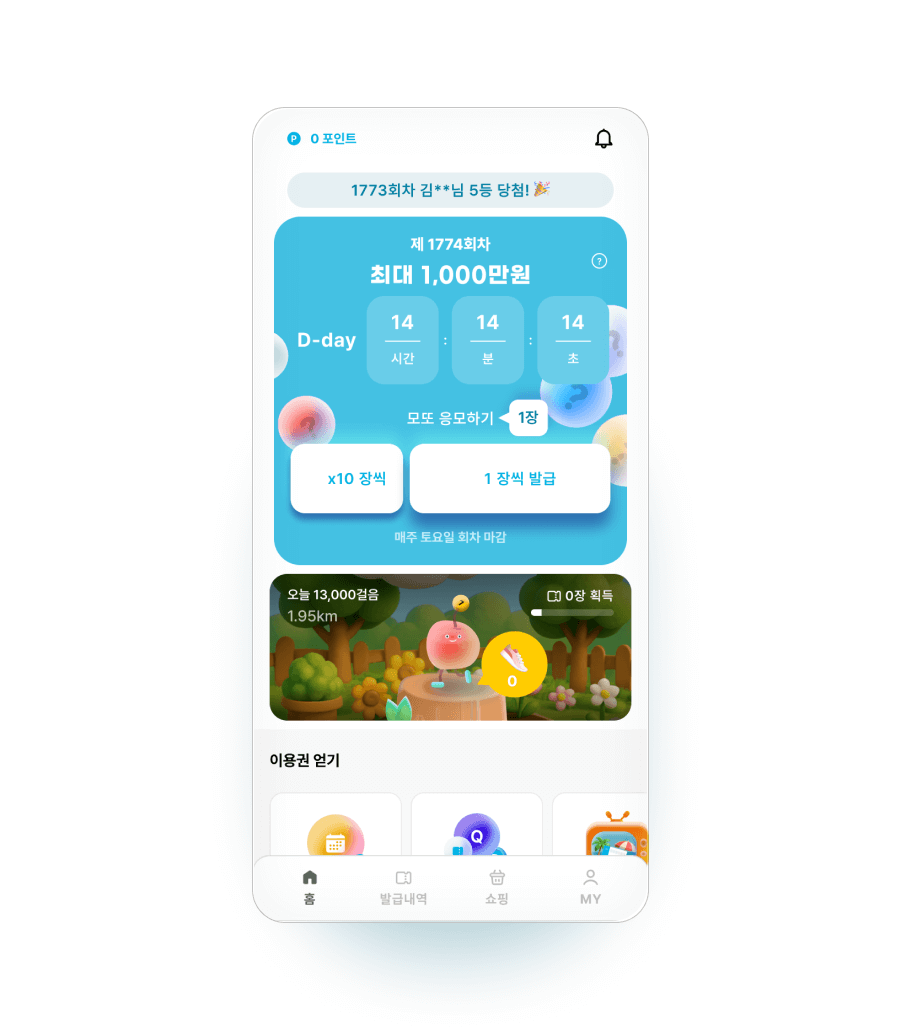
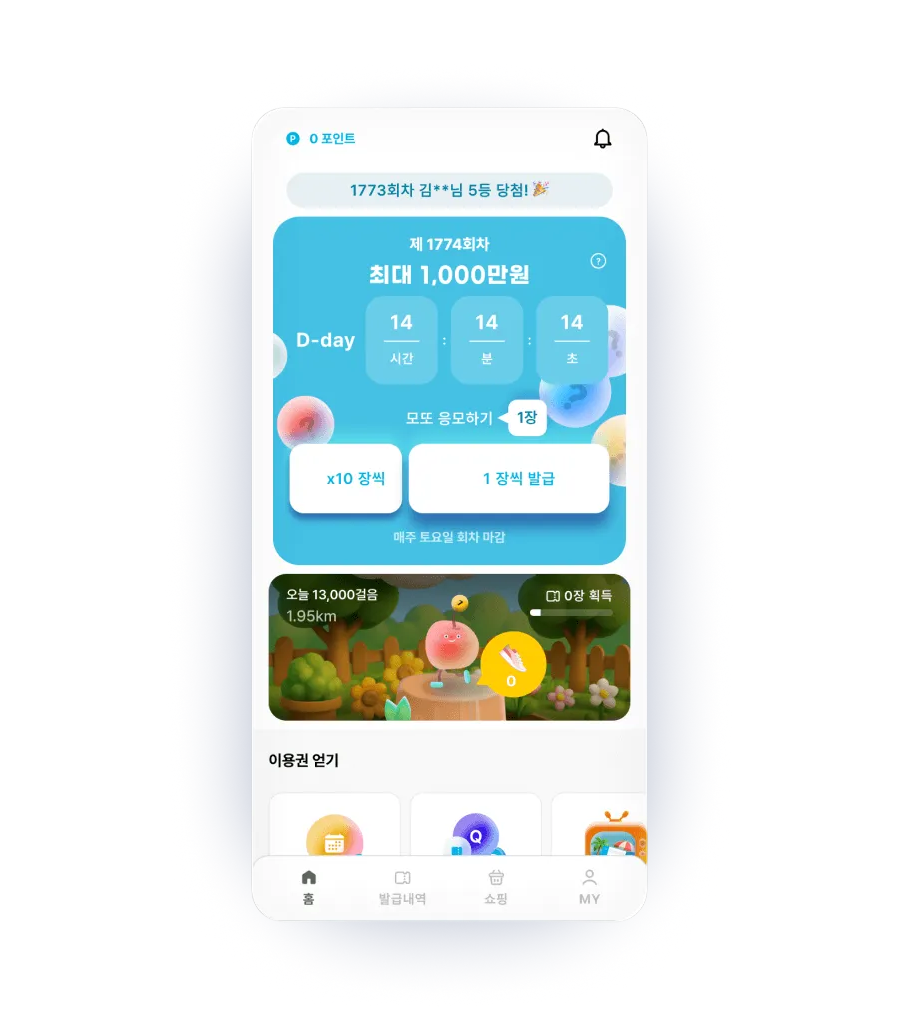
bg change

diff --git a/asset/style.css b/asset/style.css
@@ -36,7 +36,7 @@ body{
   height: 96%;
   margin: 0 auto;
 max-width: 1280px;
-  background: linear-gradient(#e6e8ea , #ffffff 80%);
+  background: #ffffff;
     
     animation: breathing-gradient 4s ease-in-out infinite alternate;
   border-radius: 42px;
@@ -57,7 +57,7 @@ max-width: 1280px;
   height: 96%;
     margin: 0 auto;
 max-width: 1280px;
-  background: linear-gradient(#ffffff , #e8e6e6 80%);
+  background: #ffffff;
     
     animation: breathing-gradient 4s ease-in-out infinite alternate;
   border-radius: 42px;
@@ -387,7 +387,7 @@ footer{
   list-style: none; /* li의 기본 스타일 제거 */
   display: block;
   /* 기존 스타일 */
-  background: #fff;
+  background: #f1f1f1;
   min-height: 200px;
   height: 100%;
   border-radius: 12px;
@@ -407,7 +407,7 @@ footer{
     max-width: 420px;
     list-style: none;
     margin: 16px auto;
-    background: #fff;
+    background: #f1f1f1;
     padding: 8px; /* 패딩을 위아래 포함하여 8px로 통일 */
     box-sizing: border-box;
     border-radius: 12px;
